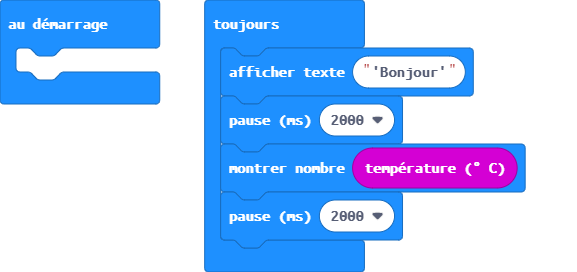
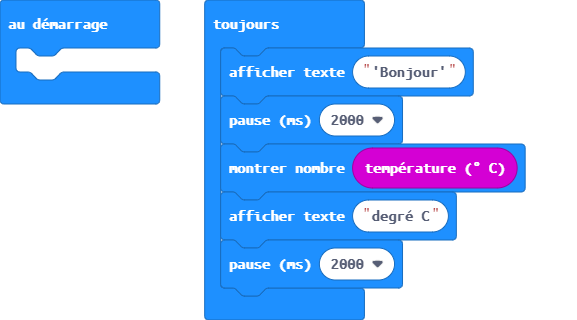
Mise à jour main.blocks, main.ts

diff --git a/main.ts b/main.ts
@@ -2,5 +2,6 @@ basic.forever(function () {
     basic.showString("'Bonjour'")
     basic.pause(2000)
     basic.showNumber(input.temperature())
+    basic.showString("degré C")
     basic.pause(2000)
 })
